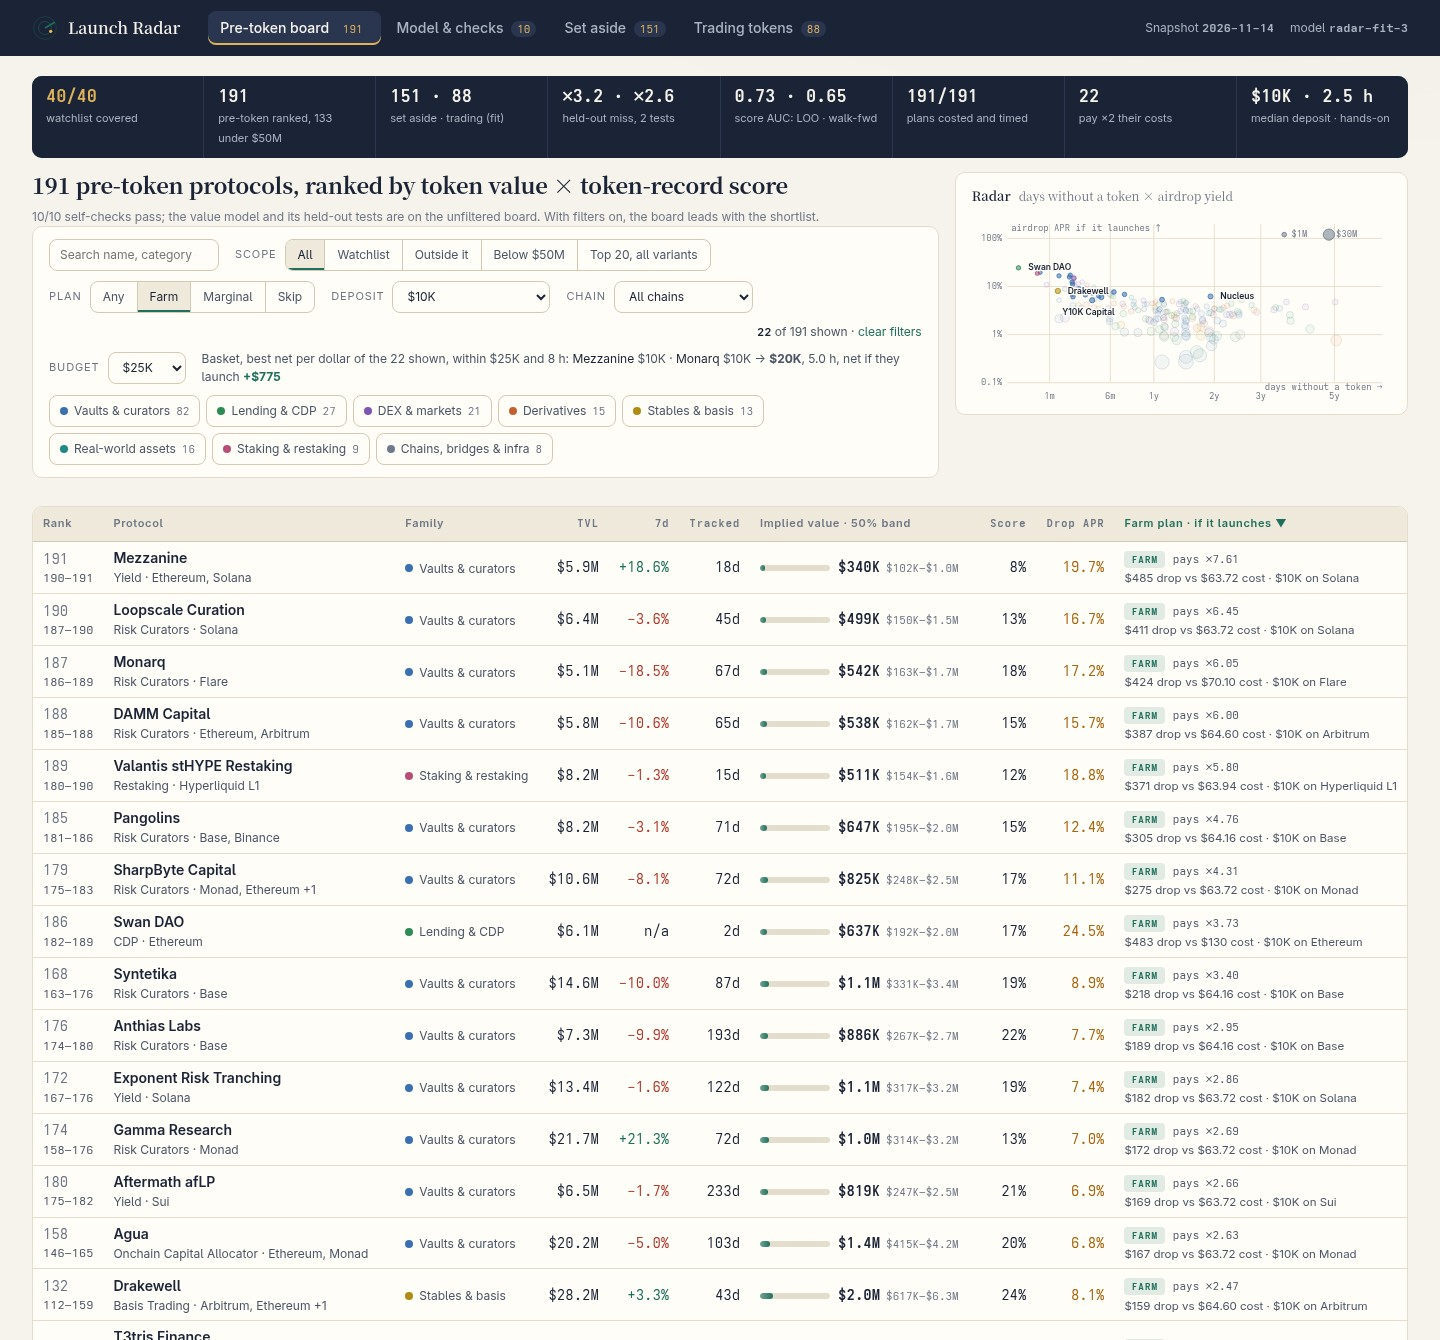
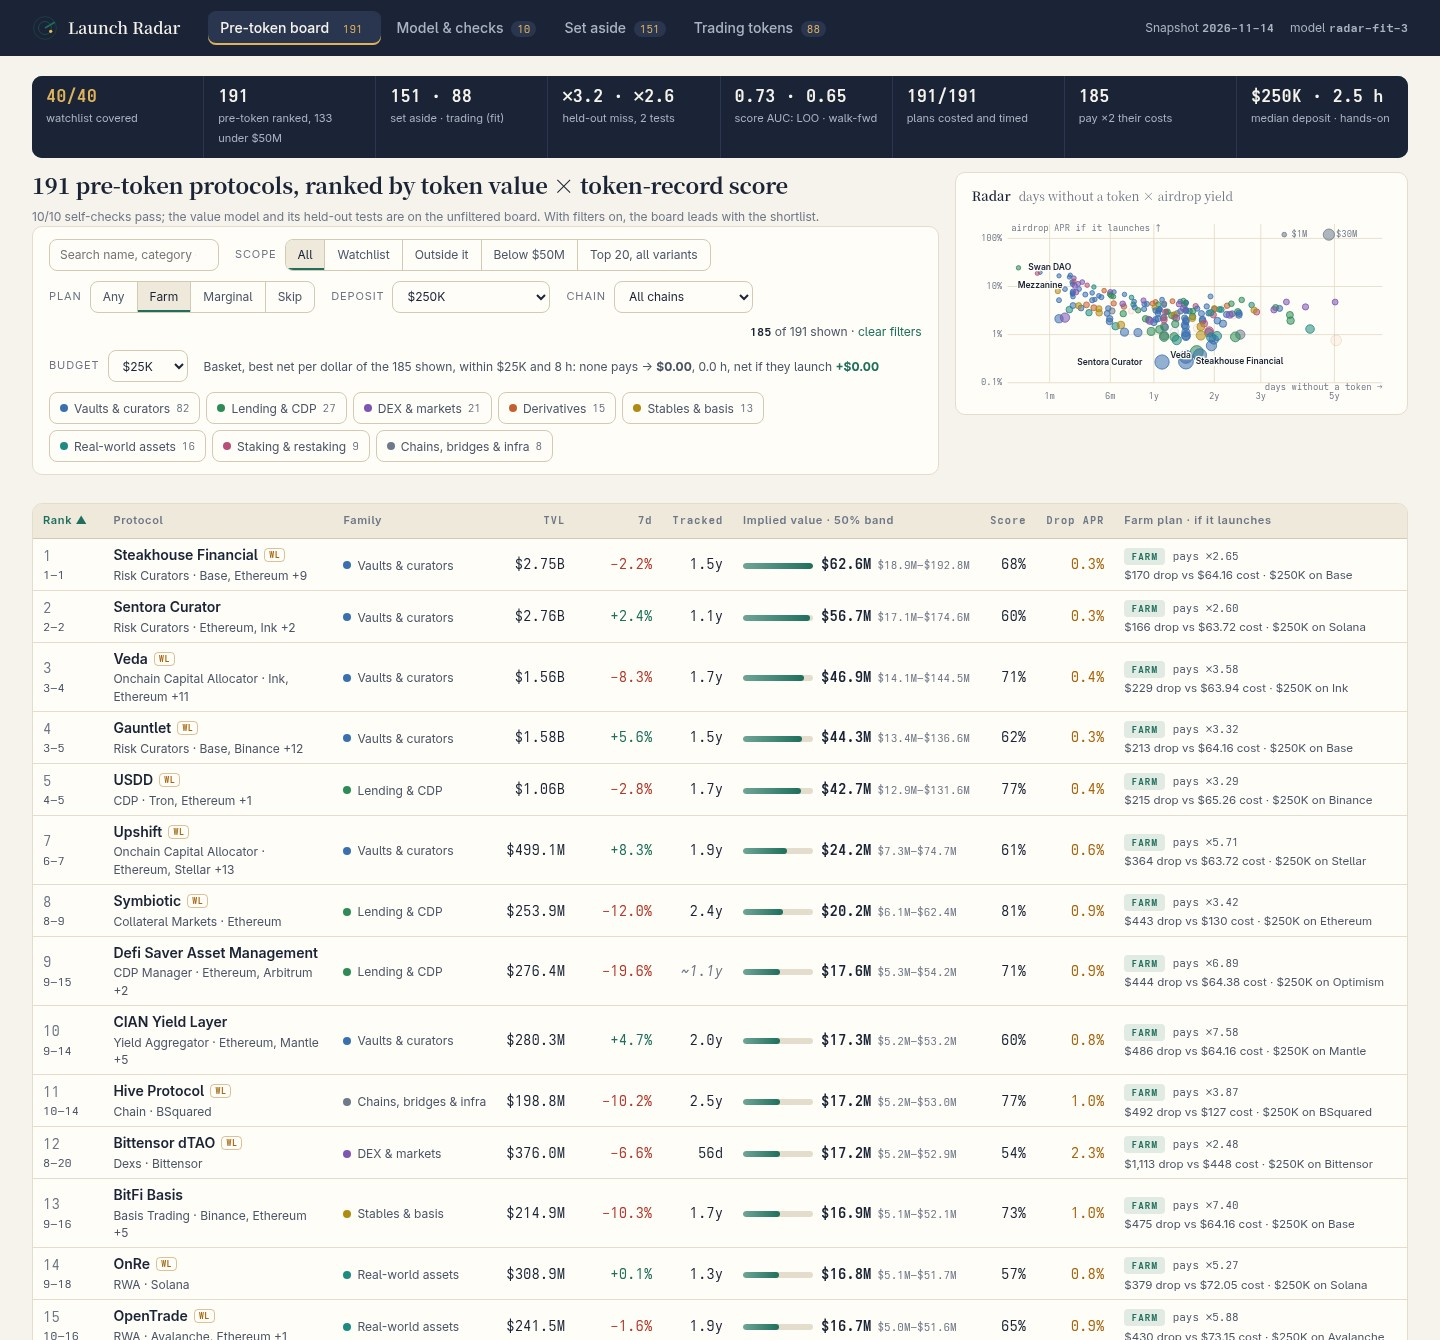
Capital for x2 in the plan cell's first line; $250K and $1M budget options

diff --git a/dashboard/app.js b/dashboard/app.js
@@ -39,7 +39,7 @@
       if (i > 0 && own(DEF, k)) try { st[k] = decodeURIComponent(kv.slice(i + 1)); } catch (e) { /* keep the default */ }
     });
     // Unknown values fall back to the defaults, so a hand-typed link never breaks the page.
-    const ok = { view: 'board model aside trading', scope: 'all watch early outside stable', verdict: ' farm marginal skip', dir: 'asc desc', dep: ' 1000 5000 10000 25000 100000 250000', bud: '10000 25000 50000 100000' };
+    const ok = { view: 'board model aside trading', scope: 'all watch early outside stable', verdict: ' farm marginal skip', dir: 'asc desc', dep: ' 1000 5000 10000 25000 100000 250000', bud: '10000 25000 50000 100000 250000 1000000' };
     Object.keys(ok).forEach((k) => { if (!ok[k].split(' ').includes(st[k])) st[k] = DEF[k]; });
     if (!own(KEYS, st.sort)) st.sort = 'rank';
     return st;
@@ -183,7 +183,7 @@
         <td class="val"><span class="bar"><i style="width:${w.toFixed(1)}%"></i></span><b>${usd(r.v.implied)}</b><small>${usd(r.v.low)}–${usd(r.v.high)}</small></td>
         <td class="num">${pc(r.v.time_factor)}</td>
         <td class="num apr">${(r.v.apr * 100).toFixed(1)}%</td>
-        <td class="plan">${verdictTag(r.plan.verdict)} <span class="pmult">pays ${mult(r.plan.drop / r.plan.all_in)}</span><small>${usd(r.plan.drop)} drop vs ${usd(r.plan.all_in)} cost · ${usd(r.plan.stake)} on ${esc(r.plan.chain)}${r.plan.verdict === 'farm' ? '' : ` · ×${M.target_cover} at ${usd(r.plan.pay_cap)}`}</small></td></tr>`;
+        <td class="plan">${verdictTag(r.plan.verdict)} <span class="pmult">pays ${mult(r.plan.drop / r.plan.all_in)}${r.plan.verdict === 'farm' ? '' : ` · ×${M.target_cover} at ${usd(r.plan.pay_cap)}`}</span><small>${usd(r.plan.drop)} drop vs ${usd(r.plan.all_in)} cost · ${usd(r.plan.stake)} on ${esc(r.plan.chain)}</small></td></tr>`;
     }).join('');
     // The controls: under the hero on the cover, beside the chart when filters are on.
     const ctl = `<div class="ctl">    <section class="filters">
@@ -194,7 +194,7 @@
       <label class="field"><span>Chain</span><select id="chain"><option value="">All chains</option>${Object.keys(chains).sort((a, b) => chains[b] - chains[a] || (a < b ? -1 : 1)).map((c) => `<option${c === st.chain ? ' selected' : ''}>${esc(c)}</option>`).join('')}</select></label>
       <div class="count"><b>${shown.length}</b> of ${rows.length} shown${active ? ` · <a href="${link({ q: '', fam: '', chain: '', scope: 'all', verdict: '', dep: '' })}">clear filters</a>` : ''}</div>
     </section>
-    <section class="filters basket"><label class="field"><span>Budget</span><select id="bud">${[10000, 25000, 50000, 100000].map((d) => `<option value="${d}"${String(d) === st.bud ? ' selected' : ''}>${usd(d)}</option>`).join('')}</select></label>
+    <section class="filters basket"><label class="field"><span>Budget</span><select id="bud">${[10000, 25000, 50000, 100000, 250000, 1000000].map((d) => `<option value="${d}"${String(d) === st.bud ? ' selected' : ''}>${usd(d)}</option>`).join('')}</select></label>
       <span>Basket, best net per dollar of the ${shown.length} shown, within ${usd(+st.bud)} and ${HOURS} h: ${pick.map((r) => `<a href="${link({ p: r.p.slug })}">${esc(r.p.name)}</a> ${usd(r.plan.stake)}`).join(' · ') || 'none pays'} → <b>${usd(cap)}</b>, ${hrs.toFixed(1)} h, net if they launch <b class="up">+${usd(pick.reduce((s, r) => s + r.plan.net, 0))}</b></span></section>
     <section class="filters"><div class="chips" role="group" aria-label="Family">${famLinks}</div></section></div>`;
     return `<section class="strip">
